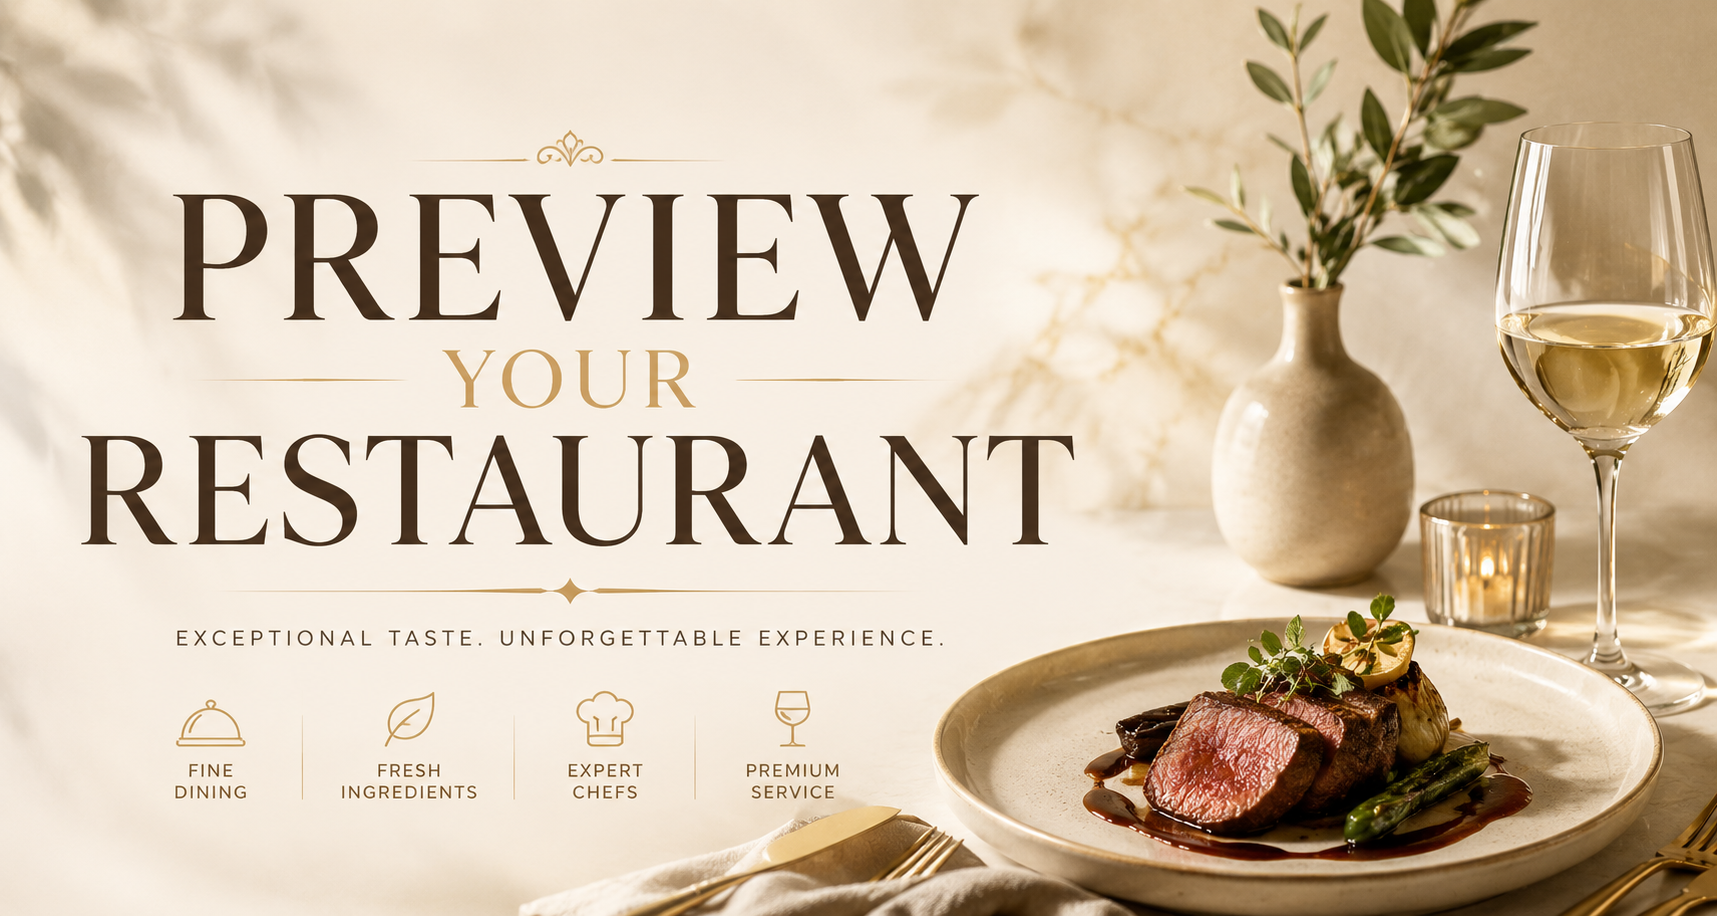
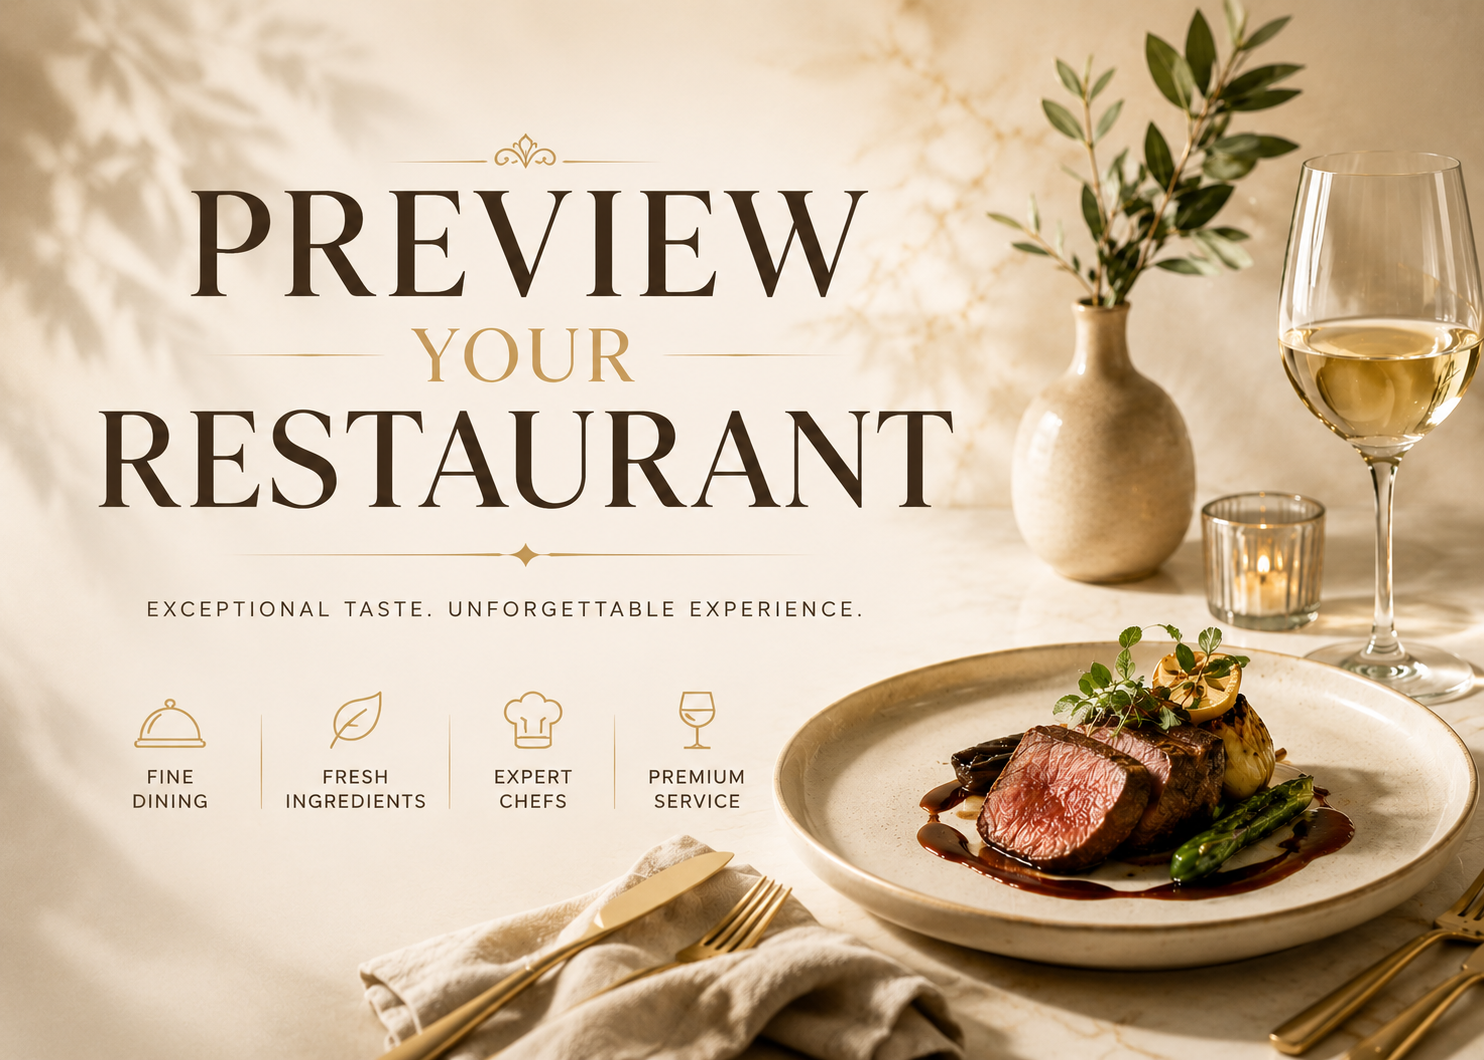
Fix: preserve user language selection when switching supported countries

diff --git a/js/demo-form.js b/js/demo-form.js
@@ -283,9 +283,14 @@ countrySelect.addEventListener('change', e => {
 
   // Restrict language options to those supported by the country
   if (country && Array.isArray(country.locales)) {
+    const prevLocale = languageSelect.value;
     populateLanguages(country.locales);
-    if (country.main_locale && country.locales.includes(country.main_locale)) {
-      languageSelect.value = country.main_locale;
+    // Only fall back to the country's main_locale if the user hadn't
+    // already picked a language that the new country still supports.
+    if (!prevLocale || !country.locales.includes(prevLocale)) {
+      if (country.main_locale && country.locales.includes(country.main_locale)) {
+        languageSelect.value = country.main_locale;
+      }
     }
   }
 